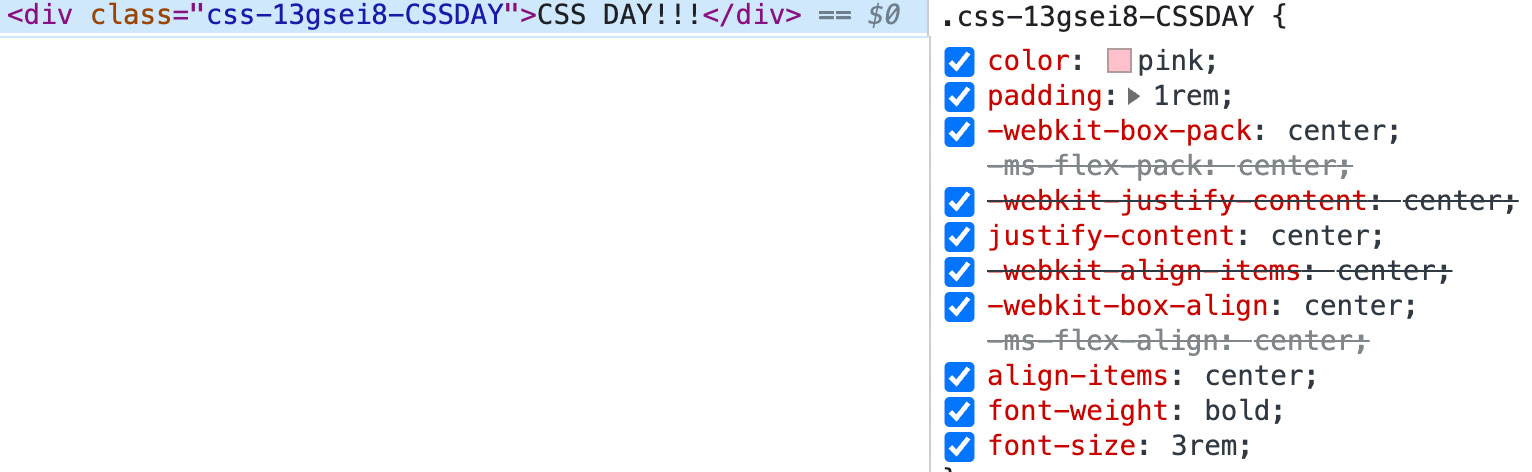
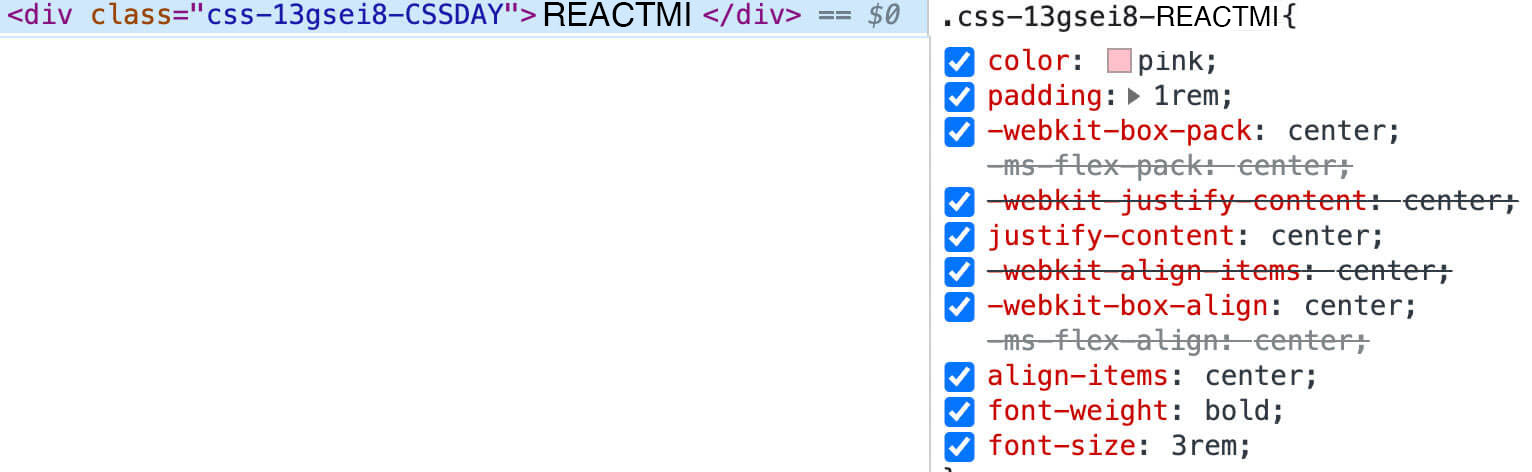
refactor: update styling and text references from CSS DAY to REACT MI

diff --git a/src/App.tsx b/src/App.tsx
@@ -41,7 +41,7 @@ const template = () => (
   </FlexBox>
 );
 
-const CSSDAY = css`
+const REACTMI = css`
   color: pink;
   padding: 1rem;
   justify-content: center;
@@ -176,7 +176,7 @@ export const neutral: Colors = {
       <Slide>
         <FlexBox height="100%" flexDirection="column">
           <Heading>Questo è un lavoro per...</Heading>
-          <Appear css={css`text-align: center;`}>Css in JS</Appear>
+          <Appear css={css`text-align: center;`}>Css in JS<br /> Sorry Sass</Appear>
         </FlexBox>
       </Slide>
       <Slide>
@@ -210,7 +210,7 @@ export const neutral: Colors = {
                   font-size: 3rem;
                 \`
                 const element = document.createElement("div")
-                element.innerText = "CSS DAY!!!"
+                element.innerText = "REACT MI"
                 element.classList.add(style)
                 document.body.appendChild(element)
               `}</CodePane>
@@ -225,7 +225,7 @@ export const neutral: Colors = {
                     font-weight: bold;
                     font-size: 3rem;
                   `}>
-                  CSS DAY!!!
+                  REACT MI
                 </div></Box>
           </Grid>
         </FlexBox>
@@ -244,7 +244,7 @@ export const neutral: Colors = {
                     font-weight: bold;
                     font-size: 3rem;
                 \`}>
-                  CSS DAY!!!
+                  REACT MI
                 </div>
               `}</CodePane>
             </Box>
@@ -258,7 +258,7 @@ export const neutral: Colors = {
                     font-weight: bold;
                     font-size: 3rem;
                   `}>
-                  CSS DAY!!!
+                  REACT MI
                 </div></Box>
           </Grid>
         </FlexBox>
@@ -276,7 +276,7 @@ export const neutral: Colors = {
               <CodePane language='jsx' highlightRanges={[3]}>{`
                 <div 
                   className={css\`
-                    label: CSSDAY;
+                    label: REACTMI;
                     color: pink;
                     padding: 1rem;
                     justify-content: center;
@@ -284,14 +284,14 @@ export const neutral: Colors = {
                     font-weight: bold;
                     font-size: 3rem;
                 \`}>
-                  CSS DAY!!!
+                  REACT MI
                 </div>
               `}</CodePane>
             </Box>
             <Box css={css`justify-content: center; align-items: center; display: flex;`}>
                 <div 
                   css={css`
-                    label: CSSDAY;
+                    label: REACTMI;
                     color: pink;
                     padding: 1rem;
                     justify-content: center;
@@ -299,7 +299,7 @@ export const neutral: Colors = {
                     font-weight: bold;
                     font-size: 3rem;
                   `}>
-                  CSS DAY!!!
+                  REACT MI
                 </div></Box>
           </Grid>
         </FlexBox>
@@ -315,17 +315,17 @@ export const neutral: Colors = {
           <Grid gridTemplateColumns="70% 30%" gridColumnGap={15} css={css`width: 100%; justify-content: center;`}>
             <Box>
               <CodePane language='jsx' highlightRanges={[3]}>{`
-                const CSSDAY = css\`...\`
+                const REACTMI = css\`...\`
                 <div 
-                  className={CSSDAY}>
-                  CSS DAY!!!
+                  className={REACTMI}>
+                  REACT MI
                 </div>
               `}</CodePane>
             </Box>
             <Box css={css`justify-content: center; align-items: center; display: flex;`}>
                 <div 
-                  css={CSSDAY}>
-                  CSS DAY!!!
+                  css={REACTMI}>
+                  REACT MI
                 </div></Box>
           </Grid>
         </FlexBox>
@@ -359,7 +359,7 @@ export const neutral: Colors = {
                     font-weight: bold;
                     font-size: 3rem;
                 \`}>
-                  CSS DAY!!!
+                  REACT MI
                 </div>
               `}</CodePane>
             </Box>
@@ -373,7 +373,7 @@ export const neutral: Colors = {
                     font-weight: bold;
                     font-size: 3rem;
                   `}>
-                  CSS DAY!!!
+                  REACT MI
                 </div></Box>
           </Grid>
         </FlexBox>
@@ -408,7 +408,7 @@ export const neutral: Colors = {
                       fontWeight: 'bold',
                       fontSize: '3rem',
                     }}>
-                    CSS DAY!!!
+                    REACT MI
                   </div>
               `}</CodePane>
             </Box>
@@ -422,7 +422,7 @@ export const neutral: Colors = {
                   fontWeight: 'bold',
                   fontSize: '3rem',
                 }}>
-                CSS DAY!!!
+                REACT MI
               </div>
             </Box>
           </Grid>
@@ -443,11 +443,11 @@ export const neutral: Colors = {
                   font-weight: bold;
                   font-size: 3rem;
                 \`
-                <Styled>CSS DAY</Styled>
+                <Styled>REACT MI</Styled>
               `}</CodePane>
             </Box>
             <Box css={css`justify-content: center; align-items: center; display: flex;`}>
-              <Styled>CSS DAY!</Styled>
+              <Styled>REACT MI!</Styled>
             </Box>
           </Grid>
         </FlexBox>
@@ -461,27 +461,27 @@ export const neutral: Colors = {
               <CodePane language='jsx'>{`
               <Styled className='qualcosa' css={[
                 css\`
-                  💲{CSSDAY}
+                  💲{REACTMI}
                   color: green;
                 \`,
                 css\`color: blue;\`,
-                CSSDAY
+                REACTMI
               ]}>
-                CSS DAY
+                REACT MI
               </Styled>
               `}</CodePane>
             </Box>
             <Box css={css`justify-content: center; align-items: center; display: flex;`}>
               <Styled className='qualcosa' css={[
                   css`
-                    ${CSSDAY}
+                    ${REACTMI}
                     color: green;
                   `,
                   css`color: blue;`,
-                  CSSDAY
+                  REACTMI
                 ]}
               >
-                CSS DAY
+                REACT MI
               </Styled>
             </Box>
           </Grid>
@@ -506,13 +506,13 @@ export const neutral: Colors = {
               <CodePane language='jsx'>{`
                 const a = css\`color: red; border: 1px solid pink;\`
                 const b = css\`color: pink; padding: 1rem;\`
-                <div css={[a, b]}>CSSDAY</div>
-                <div css={css\`💲{a}💲{b}\`}>CSSDAY</div>
+                <div css={[a, b]}>REACTMI</div>
+                <div css={css\`💲{a}💲{b}\`}>REACTMI</div>
               `}</CodePane>
             </Box>
             <Box css={css`justify-content: center; align-items: center; display: flex; transform: scale(2);`}>
-              <div css={([a, b])}>CSSDAY</div>
-              <div css={css`${a}${b}`}>CSSDAY</div>
+              <div css={([a, b])}>REACTMI</div>
+              <div css={css`${a}${b}`}>REACTMI</div>
             </Box>
           </Grid>
         </FlexBox>
@@ -521,6 +521,7 @@ export const neutral: Colors = {
         <FlexBox height="100%" flexDirection="column">
           <img src="/images/inspect3.png" alt="inspect" />
           <Appear><Text>Classi ripetute? E le performance??!1!</Text></Appear>
+          <Appear>GZip e Brotli to the rescue, above the fold e solo quello necessario</Appear>
         </FlexBox>
       </Slide>
 
@@ -550,8 +551,8 @@ export const neutral: Colors = {
                 }
               \`}>
                 <div>This is</div>
-                <section>CSS</section>
-                <span>DAY!!!</span>
+                <section>REACT</section>
+                <span>MI!!!</span>
               </div>
               `}</CodePane>
             </Box>
@@ -573,8 +574,8 @@ export const neutral: Colors = {
                 }
               `}>
                 <div>This is</div>
-                <section>CSS</section>
-                <span>DAY!!!</span>
+                <section>REACT</section>
+                <span>MI!!!</span>
               </div>
             </Box>
           </Grid>
@@ -597,13 +598,13 @@ export const neutral: Colors = {
                 \`
                 <Styled css={css\`
                   animation: 💲{rotate} 2s linear infinite;
-                \`}>CSS DAY!</Styled>
+                \`}>REACT MI!</Styled>
               `}</CodePane>
             </Box>
             <Box css={css`justify-content: center; align-items: center; display: flex;`}>
               <Styled css={css`
                 animation: ${rotate} 2s linear infinite;
-              `}>CSS DAY!</Styled>
+              `}>REACT MI!</Styled>
             </Box>
           </Grid>
         </FlexBox>
@@ -620,7 +621,7 @@ export const neutral: Colors = {
                   @media (min-width: 20rem) {
                     color: white;
                   }
-                \`}>CSS DAY!</Styled>
+                \`}>REACT MI!</Styled>
               `}</CodePane>
             </Box>
             <Box css={css`justify-content: center; align-items: center; display: flex;`}>
@@ -629,7 +630,7 @@ export const neutral: Colors = {
                 @media (min-width: 20rem) {
                   color: white;
                 }
-              `}>CSS DAY!</Styled>
+              `}>REACT MI!</Styled>
             </Box>
           </Grid>
         </FlexBox>
@@ -892,10 +893,11 @@ const Search = () => {
         <FlexBox height="100%" flexDirection="column">
           <img src="/images/thankyou.gif" alt="grazie" css={css`max-height: 10vw; margin-bottom: 0;`} />
           <Heading>Grazie</Heading>
-          <UnorderedList css={css`margin-top: 0`}>
-            <Appear><ListItem>Matteo <small>per avermi fatto uscire dalla comfort zone e tornare sul palco</small></ListItem></Appear>
-            <Appear><ListItem>Claudia <small>per avermi fatto uscire dalla comfort zone e dato una figlia</small></ListItem></Appear>
-            <Appear><ListItem>Gaia <small>per avermi fatto uscire dalle comfort zone, tutte le comfort zone</small></ListItem></Appear>
+          <UnorderedList css={css`margin-top: 0;`}>
+            <Appear>
+              <ListItem>Claudia <small>per avermi fatto uscire dalla comfort zone e dato una figlia</small></ListItem>
+              <ListItem>Gaia <small>per avermi fatto uscire dalle comfort zone, tutte le comfort zone</small></ListItem>
+            </Appear>
           </UnorderedList>
         </FlexBox>
         </Slide>
